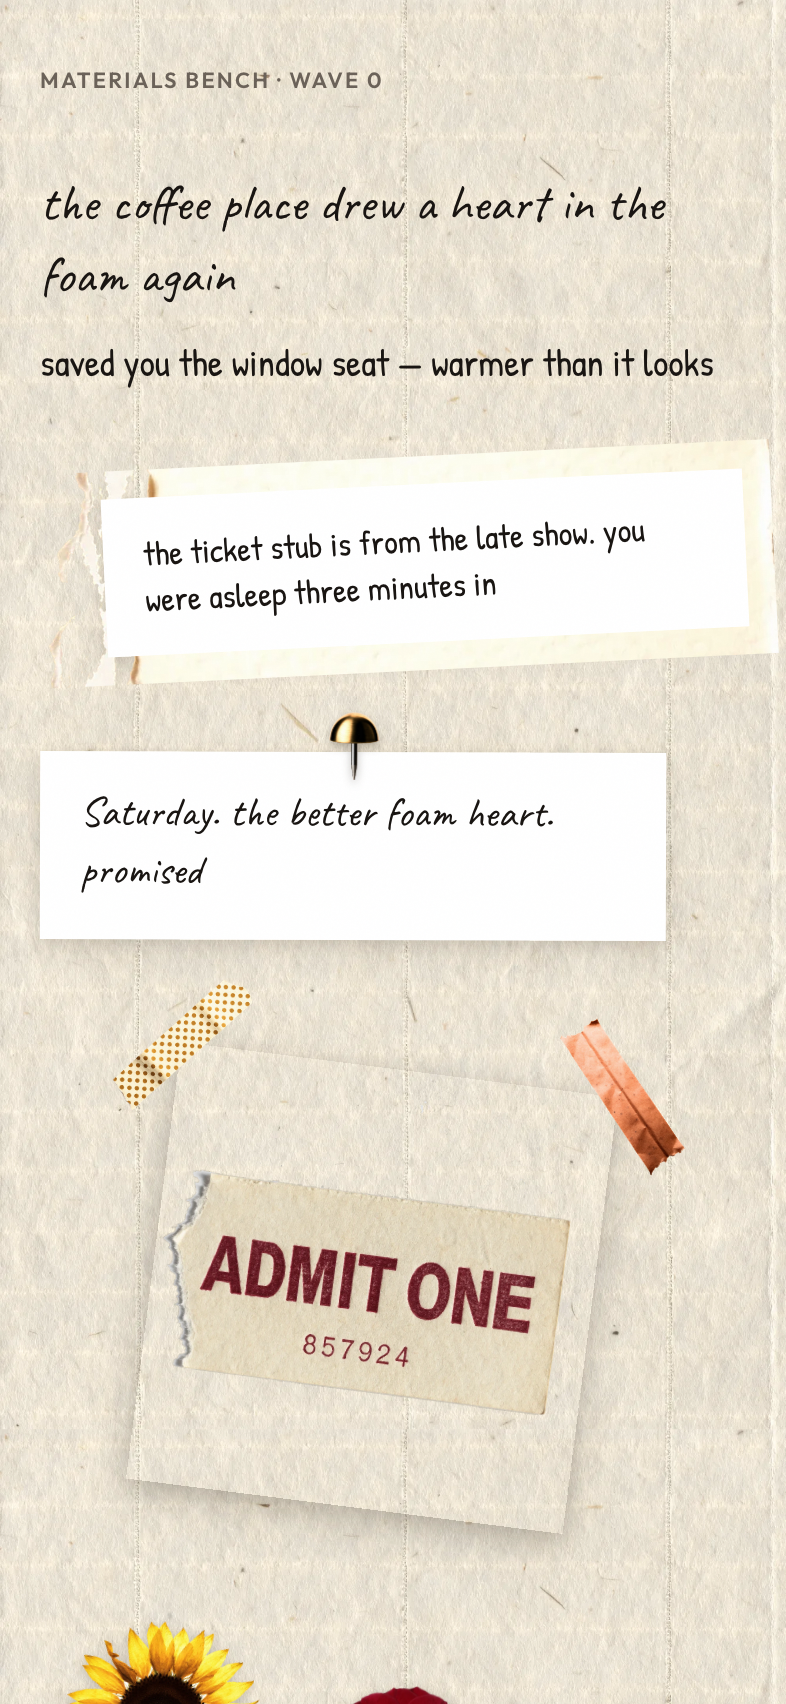
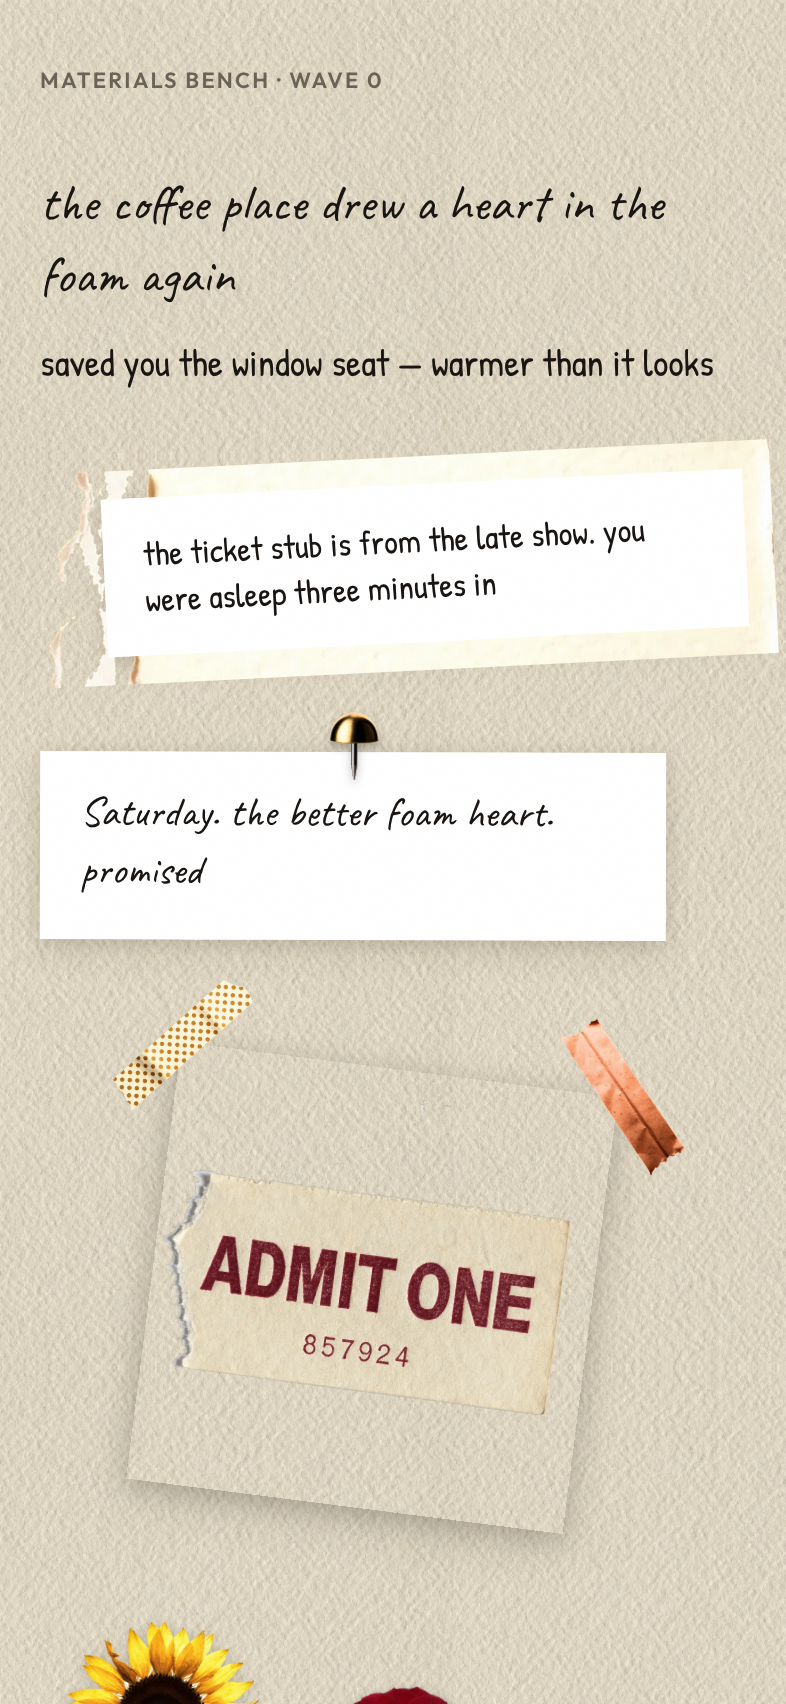
feat(materials): the coldpress stock wins at the join — adopted on evidence
Head-to-head at the join, same method, same bands, both modes:

                       step   sd above/below   delta
  bone-laid @134%      0.6      6.69 / 8.21     1.52   (day)
  coldpress @58%       0.2      6.68 / 7.69     1.02   (day)
  bone-laid @134%      0.5      5.12 / 6.29     1.17   (night)
  coldpress @58%       0.1      5.16 / 5.91     0.75   (night)

The generated stock beats bone-laid on every number and on sight —
the substrate and the strip are now the same paper family and the
join cannot be found by eye in either mode. Adopted as the Paper
default; bone-laid stays available with its own calibration.

Plumbing: background-size is per-stock (bone-laid needed 134% up,
this stock needs 58% down — its tooth is coarser than the strip;
calibrated offline by matching texture sd at display scale). The
stock's raw vertical wrap is not seamless (edge diff 10.6 vs
internal 6.6), so the runtime tile is vertically mirror-stacked;
the delivered asset stays canonical. The Seam's coldpress strip is
the -tostock grade (x0.965/0.964/0.976 to the stock's mean); the
bone-graded sibling remains for the bone-laid pairing.

Changed region(s): [[0.0, 0.0, 1.0, 1.0]]

diff --git a/apps/web/components/materials/Paper.tsx b/apps/web/components/materials/Paper.tsx
@@ -27,46 +27,59 @@ import { cn } from "@/lib/utils";
  * must be generated as stocks, not improvised from strips.)
  */
 
-export type PaperStock = "bone-laid" | "bone";
+export type PaperStock = "coldpress" | "bone-laid" | "bone";
 
 export interface PaperProps {
   /**
-   * Which stock the table is made of. bone-laid pairs with the
-   * Seam's default (bone-graded coldpress tear).
-   * @default "bone-laid"
+   * Which stock the table is made of. Pair it with the matching
+   * Seam strip grade — coldpress ↔ the stock-toned strip,
+   * bone-laid ↔ the bone-graded strip.
+   * @default "coldpress"
    */
   stock?: PaperStock;
   children: ReactNode;
   className?: string;
 }
 
+interface StockSpec {
+  src: string;
+  /**
+   * background-size, per stock, calibrated so the grain density
+   * matches the seam strip at the join (measured by texture sd at
+   * display scale, not eyeballed): bone-laid's 1792px source needs
+   * 134% up; the 1024px coldpress stock's coarser tooth needs 58%
+   * down. Recalibrate if a source is regenerated.
+   */
+  size: string;
+}
+
 /**
- * Full-bleed stocks. bone-laid ships as a runtime webp derived from
- * the canonical PNG (438 KB vs 6.8 MB — the PNG stays the source of
- * truth in the library); bone-v2 has no consumer yet and still
- * points at its PNG.
+ * Full-bleed stocks. coldpress is the generated substrate stock in
+ * the seam strip's own tone family, shipped as a vertically
+ * mirror-stacked runtime tile (its raw vertical wrap was not
+ * seamless: edge diff 10.6 vs internal 6.6). bone-laid ships as a
+ * runtime webp of the canonical PNG. The canonical assets stay in
+ * the library untouched.
  */
-const STOCKS: Record<PaperStock, string> = {
-  "bone-laid": "/materials/paper-bone-laid.webp",
-  bone: "/materials/paper-bone-v2.png",
+const STOCKS: Record<PaperStock, StockSpec> = {
+  coldpress: { src: "/materials/paper-coldpress-stock-tile.webp", size: "58% auto" },
+  "bone-laid": { src: "/materials/paper-bone-laid.webp", size: "134% auto" },
+  bone: { src: "/materials/paper-bone-v2.png", size: "100% auto" },
 };
 
-export function Paper({ stock = "bone-laid", children, className }: PaperProps) {
+export function Paper({ stock = "coldpress", children, className }: PaperProps) {
+  const spec = STOCKS[stock];
+
   return (
     <div className={cn("relative", className)} style={{ isolation: "isolate" }}>
-      {/* The stock, dimming with the room's lamp. 134%, not 100%:
-          the bone-laid source is 1792px wide against the seam
-          strip's 1344, so at equal display width the substrate's
-          grain renders 25% finer than the tear it ends in — the
-          density mismatch was measurable at the join (texture sd
-          5.5 vs 8.2). Scaling the stock to the strip's pixel scale
-          closes it. Painted before children — no z games. */}
+      {/* The stock, dimming with the room's lamp.
+          Painted before children — no z games. */}
       <div
         aria-hidden="true"
         className="under-lamp absolute inset-0"
         style={{
-          backgroundImage: `url(${STOCKS[stock]})`,
-          backgroundSize: "134% auto",
+          backgroundImage: `url(${spec.src})`,
+          backgroundSize: spec.size,
         }}
       />
       <div className="relative">{children}</div>

diff --git a/apps/web/components/materials/Seam.tsx b/apps/web/components/materials/Seam.tsx
@@ -59,14 +59,15 @@ export interface SeamProps {
 
 /**
  * Natural dimensions ride along so the browser derives the aspect.
- * The coldpress strip is the -graded derivative: its sheet tone is
- * matched to paper-bone-laid's measured mean (mechanical per-channel
- * gain, ×1.025/1.028/1.069), so the sheet tearing at the bottom of a
- * bone-laid <Paper> reads as the same paper. The ungraded original
- * stays in the library.
+ * The coldpress strip is the -tostock derivative: its sheet tone is
+ * matched to paper-coldpress-stock's measured mean (mechanical
+ * per-channel gain ×0.965/0.964/0.976), so the sheet tearing at the
+ * bottom of a coldpress <Paper> is the same paper to the eye. A
+ * bone-graded sibling (seam-tear-coldpress-graded) pairs with the
+ * bone-laid stock; the ungraded original stays in the library.
  */
 const FIBRE: Record<SeamVariant, { src: string; width: number; height: number }> = {
-  coldpress: { src: "/materials/seam-tear-coldpress-graded.webp", width: 1344, height: 497 },
+  coldpress: { src: "/materials/seam-tear-coldpress-tostock.webp", width: 1344, height: 497 },
   bone: { src: "/materials/seam-tear-bone.webp", width: 1344, height: 507 },
 };
 

diff --git a/apps/web/app/dev/materials/page.tsx b/apps/web/app/dev/materials/page.tsx
@@ -29,7 +29,7 @@ export default function MaterialsBench() {
       {/* ---------------- PAPER — the table ----------------
           A real stock as substrate (same coldpress as the Seam, so
           the join cannot exist), dimming with the lamp at night. */}
-      <Paper stock="bone-laid" className="px-5 pb-14 pt-8">
+      <Paper stock="coldpress" className="px-5 pb-14 pt-8">
         <p className="type-micro text-mute">materials bench · wave 0</p>
 
         {/* The two hands. Caveat flows; Patrick Hand stands. */}
